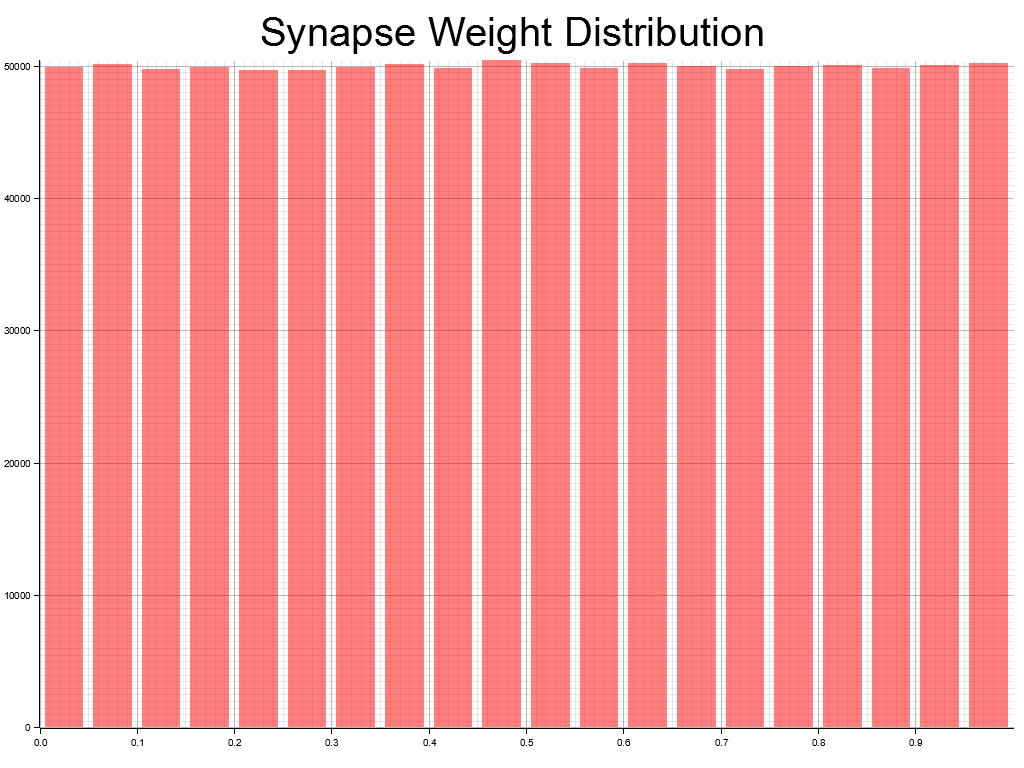
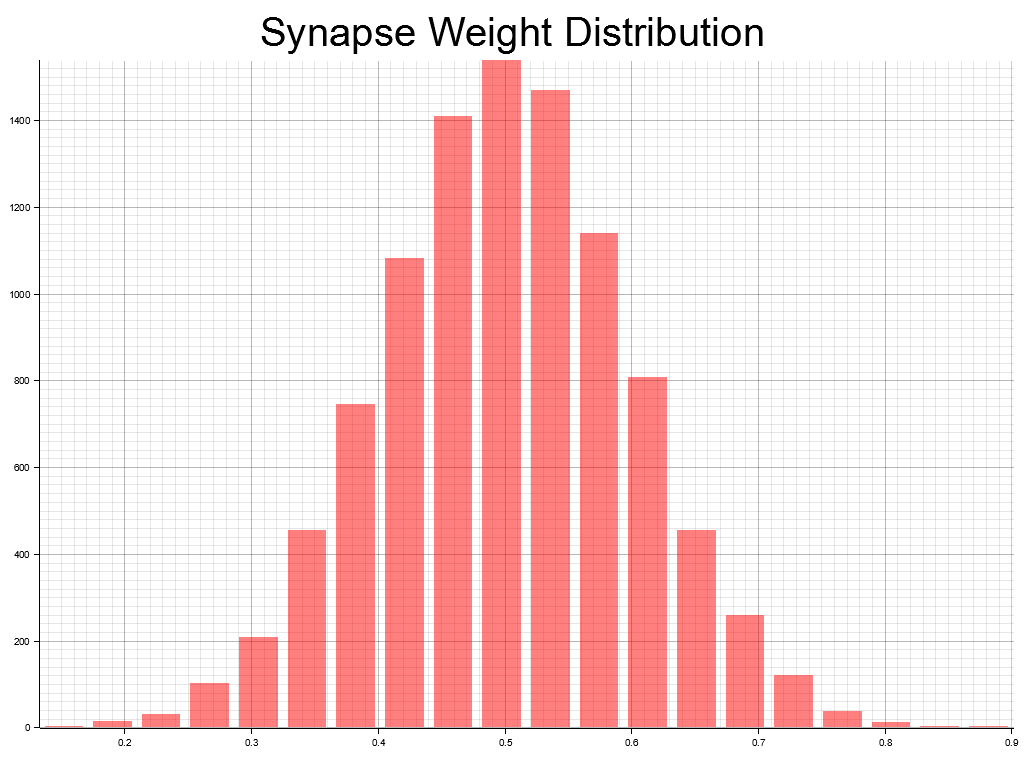
The network now initializes neuron thresholds and synapse weights using a standard distribution

diff --git a/src/network.rs b/src/network.rs
@@ -2,7 +2,8 @@ use crate::neuron::{Neuron, NeuronBehavior};
 use crate::synapse::{ChemicalSynapse, Synapse};
 use plotters::prelude::*;
 use std::sync::{Arc, RwLock};
-use crate::constants::MAX_NEURON_THRESHOLD;
+use crate::constants::{MAX_NEURON_THRESHOLD, MIN_NEURON_THRESHOLD};
+use crate::utils::get_clamped_normal;
 
 #[derive(Clone)]
 pub struct Network {
@@ -16,9 +17,10 @@ impl Network {
     }
 
     pub fn create_dense(num_neurons: usize) -> Self {
+        let mut rng = rand::thread_rng();
         let mut neurons = Vec::with_capacity(num_neurons);
         for i in 0..num_neurons {
-            neurons.push(Arc::new(RwLock::new(Neuron::new(MAX_NEURON_THRESHOLD, i))));
+            neurons.push(Arc::new(RwLock::new(Neuron::new(get_clamped_normal(MIN_NEURON_THRESHOLD, MAX_NEURON_THRESHOLD, &mut rng), i))));
         }
 
         let mut synapses = Vec::new();
@@ -28,6 +30,7 @@ impl Network {
                     let synapse = Arc::new(RwLock::new(ChemicalSynapse::new(
                         neurons.get(pre).unwrap().clone(),
                         neurons.get(post).unwrap().clone(),
+                        &mut rng
                     )));
                     neurons.get(pre).unwrap().write().unwrap().exiting_synapses.push(synapse.clone());
                     neurons.get(post).unwrap().write().unwrap().entering_synapses.push(synapse.clone());

diff --git a/src/synapse.rs b/src/synapse.rs
@@ -2,6 +2,7 @@ use std::sync::{Arc, RwLock};
 use rand::Rng;
 use crate::constants::{MAX_SYNAPSE_DELAY_MS, MAX_SYNAPSE_WEIGHT, MIN_SYNAPSE_DELAY_MS, MIN_SYNAPSE_WEIGHT};
 use crate::neuron::Neuron;
+use crate::utils::get_clamped_normal;
 
 pub trait Synapse: Send + Sync {
     fn get_presynaptic_neuron(&self) -> Arc<RwLock<Neuron>>;
@@ -27,13 +28,12 @@ pub struct ChemicalSynapse {
 }
 
 impl ChemicalSynapse {
-    pub fn new(presynaptic_neuron: Arc<RwLock<Neuron>>, postsynaptic_neuron: Arc<RwLock<Neuron>>) -> Self {
-        let mut rng = rand::thread_rng();
+    pub fn new(presynaptic_neuron: Arc<RwLock<Neuron>>, postsynaptic_neuron: Arc<RwLock<Neuron>>, rng: &mut impl Rng) -> Self {
         ChemicalSynapse {
             presynaptic_neuron,
             postsynaptic_neuron,
-            weight: rng.gen_range(MIN_SYNAPSE_WEIGHT..MAX_SYNAPSE_WEIGHT),
-            delay: rng.gen_range(MIN_SYNAPSE_DELAY_MS..MAX_SYNAPSE_DELAY_MS),
+            weight: get_clamped_normal(MIN_SYNAPSE_WEIGHT, MAX_SYNAPSE_WEIGHT, rng),
+            delay: get_clamped_normal(MIN_SYNAPSE_DELAY_MS, MAX_SYNAPSE_DELAY_MS, rng),
         }
     }
 }

diff --git a/src/utils.rs b/src/utils.rs
@@ -1,0 +1,28 @@
+use rand::prelude::*;
+use rand_distr::{Normal, Distribution};
+
+/// Generates a random value from a normal distribution defined by a min/max
+/// range corresponding to +/- 5 standard deviations, and clamps the result.
+///
+/// - `min`: The value at -5 std devs.
+/// - `max`: The value at +5 std devs.
+/// - `rng`: A mutable reference to a random number generator.
+pub fn get_clamped_normal(min: f32, max: f32, rng: &mut impl Rng) -> f32 {
+    // 1. Calculate the distribution's parameters (mean and std_dev)
+    // mean = (min + max) / 2
+    let mean = (min + max) / 2.0;
+
+    // std_dev = (max - min) / 10
+    let std_dev = (max - min) / 10.0;
+
+    // 2. Create the normal distribution
+    // We unwrap(), assuming min < max, which makes std_dev positive.
+    let dist = Normal::new(mean, std_dev).unwrap();
+
+    // 3. Sample a value from the distribution
+    let val = dist.sample(rng);
+
+    // 4. Clamp the value to the [min, max] range
+    // This ensures that values beyond +/- 5 sigma are capped.
+    val.clamp(min, max)
+}

diff --git a/src/main.rs b/src/main.rs
@@ -9,10 +9,11 @@ mod neuron;
 mod spike_event;
 mod synapse;
 mod simulation;
+mod utils;
 
 fn main() {
     println!("Spiking Neural Network Simulation");
-    let network = Network::create_dense(10);
+    let network = Network::create_dense(100);
 
     let mut simulation = Simulation::new(1.0, vec![network.neurons[0].clone(), network.neurons[1].clone()]);
 
@@ -27,4 +28,5 @@ fn main() {
 
         simulation.step();
     }
+    network.plot_synapse_weights("synapse_weights.png").unwrap();
 }
